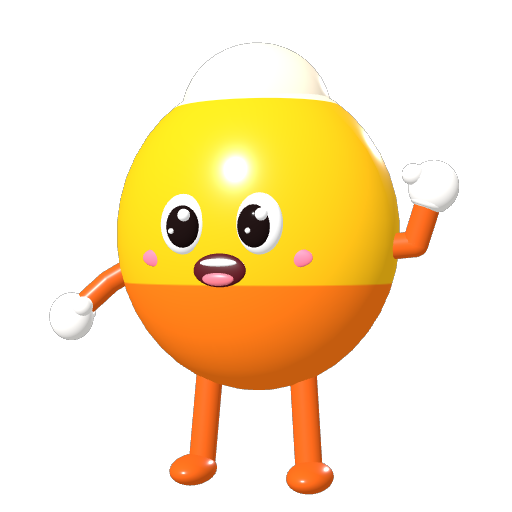
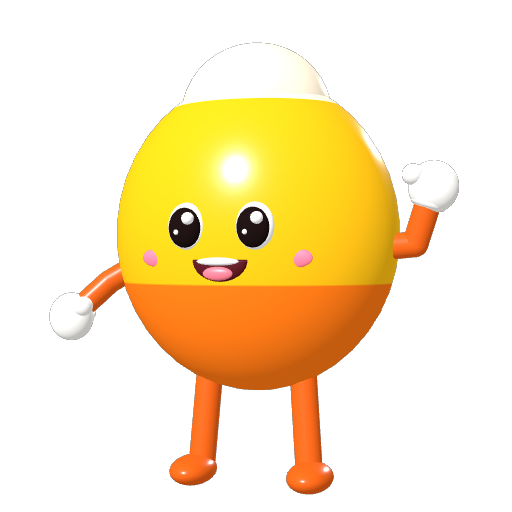
Rostos mais amigáveis e fantasma de chocolate branco refeito
- Olhos com pouco branco em volta da pupila (sem ar de susto) e sorriso
  aberto em formato de D
- Fantasma: corpo liso, barra ondulada, rosto sorridente e bracinhos
- Fotos dos personagens geradas de novo

Claude-Session: https://claude.ai/code/session_01VihRQC9mCPmgLSwEXYntza

Changed region(s): [[0.3125, 0.375, 0.5625, 0.5625]]

diff --git a/ANDAMENTO.md b/ANDAMENTO.md
@@ -45,15 +45,14 @@ Metas: APK para Android e registro no INPI.
 4. (Opcional) A branch `gh-pages` guarda cada APK publicado no histórico e está
    crescendo; dá para recriá-la sem histórico (branch órfã) de vez em quando.
 
-## Pedido atual (24/09/2026), nesta ordem
+## Pedido atual (24/09/2026)
 
-1. **Documento para o INPI**: atualizar o PDF enviado em 2023 (não aprovado),
-   mantendo a estrutura pedida pela professora e melhorando a organização.
-   Original em `docs/inpi/2023_original.pdf`; versão nova em `docs/inpi/`.
-2. **Etapa 6**: GitHub Actions com os testes, limpeza do repositório, PR para a `main`.
-3. **Por último (menos importante)**: rostos dos doces 3D mais amigáveis (olhos
-   menos arregalados, sorriso) e refazer o fantasma de chocolate branco do
-   carregamento. Depois de mudar os modelos: `ferramentas/gerar_fotos_3d.sh`.
+1. ✅ Documento para o INPI: `docs/inpi/memorial_descritivo.pdf` (ver `docs/inpi/LEIA-ME.md`).
+2. ✅ Etapa 6: testes no GitHub Actions, limpeza (pygame em `legado/`), PR para a `main`
+   ([#1](https://github.com/saviosant0s/Doce-Texto-Quiz/pull/1)).
+3. ✅ Rostos mais amigáveis (olhos com pouco branco, sorriso em "D") e fantasma
+   de chocolate branco refeito.
+4. ⏳ Executável para Windows (.exe): preset "Windows" + `ferramentas/gerar_exe.sh`.
 
 ## Onde parou
 
